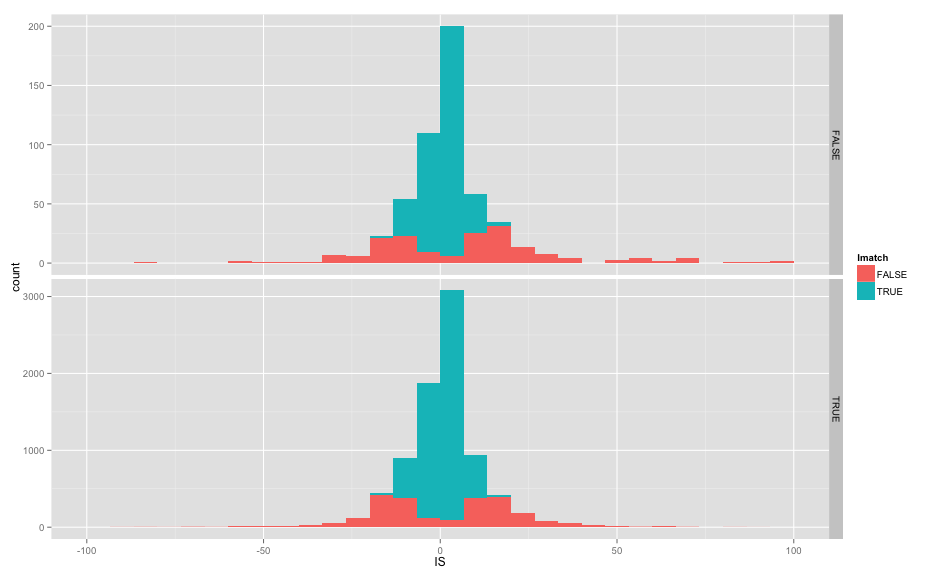
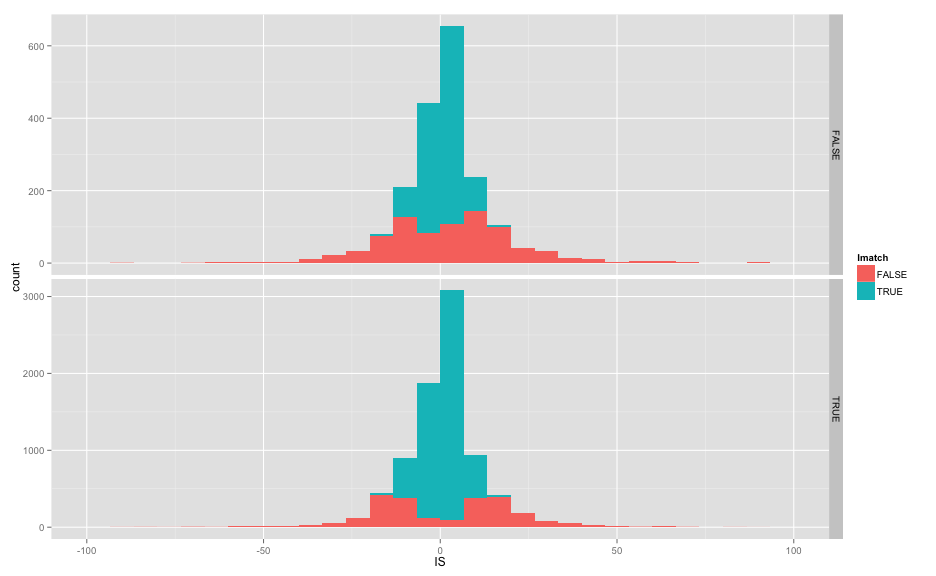
pacbio validation report update

diff --git a/reports/160317_DD2_pacbio_validation/pacBio_comparisons.md b/reports/160317_DD2_pacbio_validation/pacBio_comparisons.md
@@ -101,12 +101,12 @@ sum(allvars$VC==1 & allvars$Imatch) / sum(allvars$VC==1)
 allvars$accessible = allvars$var %in% access$var
 allvars$noFVars = allvars$VC==1
 
-#predicted/aligned length differences (accessible vs inaccessible genome)
-ggplot(subset(allvars,VC==1),aes(x=IS,y=L2-L1,colour=Imatch)) + geom_point() + facet_grid(accessible ~ .) + xlim(-100,100)
+#predicted/aligned length differences (noFlankVars:T vs hasFlankVars:F)
+ggplot(subset(allvars,accessible),aes(x=IS,y=L2-L1,colour=Imatch)) + geom_point() + facet_grid(noFVars ~ .) + xlim(-100,100)
 ```
 
 ```
-## Warning: Removed 7 rows containing missing values (geom_point).
+## Warning: Removed 3 rows containing missing values (geom_point).
 ```
 
 ```
@@ -116,8 +116,8 @@ ggplot(subset(allvars,VC==1),aes(x=IS,y=L2-L1,colour=Imatch)) + geom_point() + f
 ![plot of chunk unnamed-chunk-3](figure/unnamed-chunk-3-1.png) 
 
 ```r
-#predicted insert length distribution (accessible vs inaccessible)
-ggplot(subset(allvars,VC==1),aes(x=IS,fill=Imatch)) + geom_bar() + facet_grid(accessible ~ .,scale="free_y") + xlim(-100,100)
+#predicted insert length distribution (no_flank_vars:T vs flank_vars:F)
+ggplot(subset(allvars,accessible),aes(x=IS,fill=Imatch)) + geom_bar() + facet_grid(noFVars ~ .,scale="free_y") + xlim(-100,100)
 ```
 
 ```
@@ -139,7 +139,7 @@ ggplot(subset(allvars,Imatch & noFVars),aes(x=IS,fill=accessible)) + geom_bar()
 ![plot of chunk unnamed-chunk-3](figure/unnamed-chunk-3-3.png) 
 
 ```r
-ggplot(subset(allvars,noFVars),aes(x=IS,fill=Imatch)) + geom_bar(position="fill") + xlim(-50,50)
+ggplot(subset(allvars,noFVars & accessible),aes(x=IS,fill=Imatch)) + geom_bar(position="fill") + xlim(-50,50)
 ```
 
 ```
@@ -149,7 +149,7 @@ ggplot(subset(allvars,noFVars),aes(x=IS,fill=Imatch)) + geom_bar(position="fill"
 ![plot of chunk unnamed-chunk-3](figure/unnamed-chunk-3-4.png) 
 
 ```r
-ggplot(subset(allvars,noFVars),aes(x=IS,fill=Imatch)) + geom_bar() + xlim(-50,50)
+ggplot(subset(allvars,noFVars & accessible),aes(x=IS,fill=Imatch)) + geom_bar() + xlim(-50,50)
 ```
 
 ```
@@ -159,10 +159,22 @@ ggplot(subset(allvars,noFVars),aes(x=IS,fill=Imatch)) + geom_bar() + xlim(-50,50
 ![plot of chunk unnamed-chunk-3](figure/unnamed-chunk-3-5.png) 
 
 ```r
-ggplot(subset(allvars,VC==1),aes(x=TD,y=IS-(L2-L1),colour=Imatch)) + geom_point() + facet_grid(accessible ~ .)
+#ggplot(subset(allvars,VC==1),aes(x=TD,y=IS-(L2-L1),colour=Imatch)) + geom_point() + facet_grid(accessible ~ .)
 ```
 
-![plot of chunk unnamed-chunk-3](figure/unnamed-chunk-3-6.png) 
+
+```r
+#no clear chr effects of accessibility
+ggplot(subset(allvars,noFVars & accessible),aes(x=chrom,fill=Imatch)) + geom_bar()
+```
+
+![plot of chunk unnamed-chunk-4](figure/unnamed-chunk-4-1.png) 
+
+```r
+ggplot(subset(allvars,noFVars & accessible),aes(x=chrom,fill=Imatch)) + geom_bar(position="fill")
+```
+
+![plot of chunk unnamed-chunk-4](figure/unnamed-chunk-4-2.png) 
 
 
 ```r
@@ -196,11 +208,11 @@ head(blockcf)
 ggplot(blockcf,aes(x=mid,y=matchpc,colour=accesspc)) + geom_point() + facet_grid(chrom ~ .)
 ```
 
-![plot of chunk unnamed-chunk-4](figure/unnamed-chunk-4-1.png) 
+![plot of chunk unnamed-chunk-5](figure/unnamed-chunk-5-1.png) 
 
 ```r
 #ggplot(blockcf,aes(x=mid,y=match)) + geom_line(colour="red") + geom_line(aes(y=total)) + facet_grid(chrom ~ .)
 ggplot(blockcf,aes(x=mid,y=match)) + geom_point(colour="red") + geom_point(aes(y=total)) + facet_grid(chrom ~ .)
 ```
 
-![plot of chunk unnamed-chunk-4](figure/unnamed-chunk-4-2.png) 
+![plot of chunk unnamed-chunk-5](figure/unnamed-chunk-5-2.png) 
